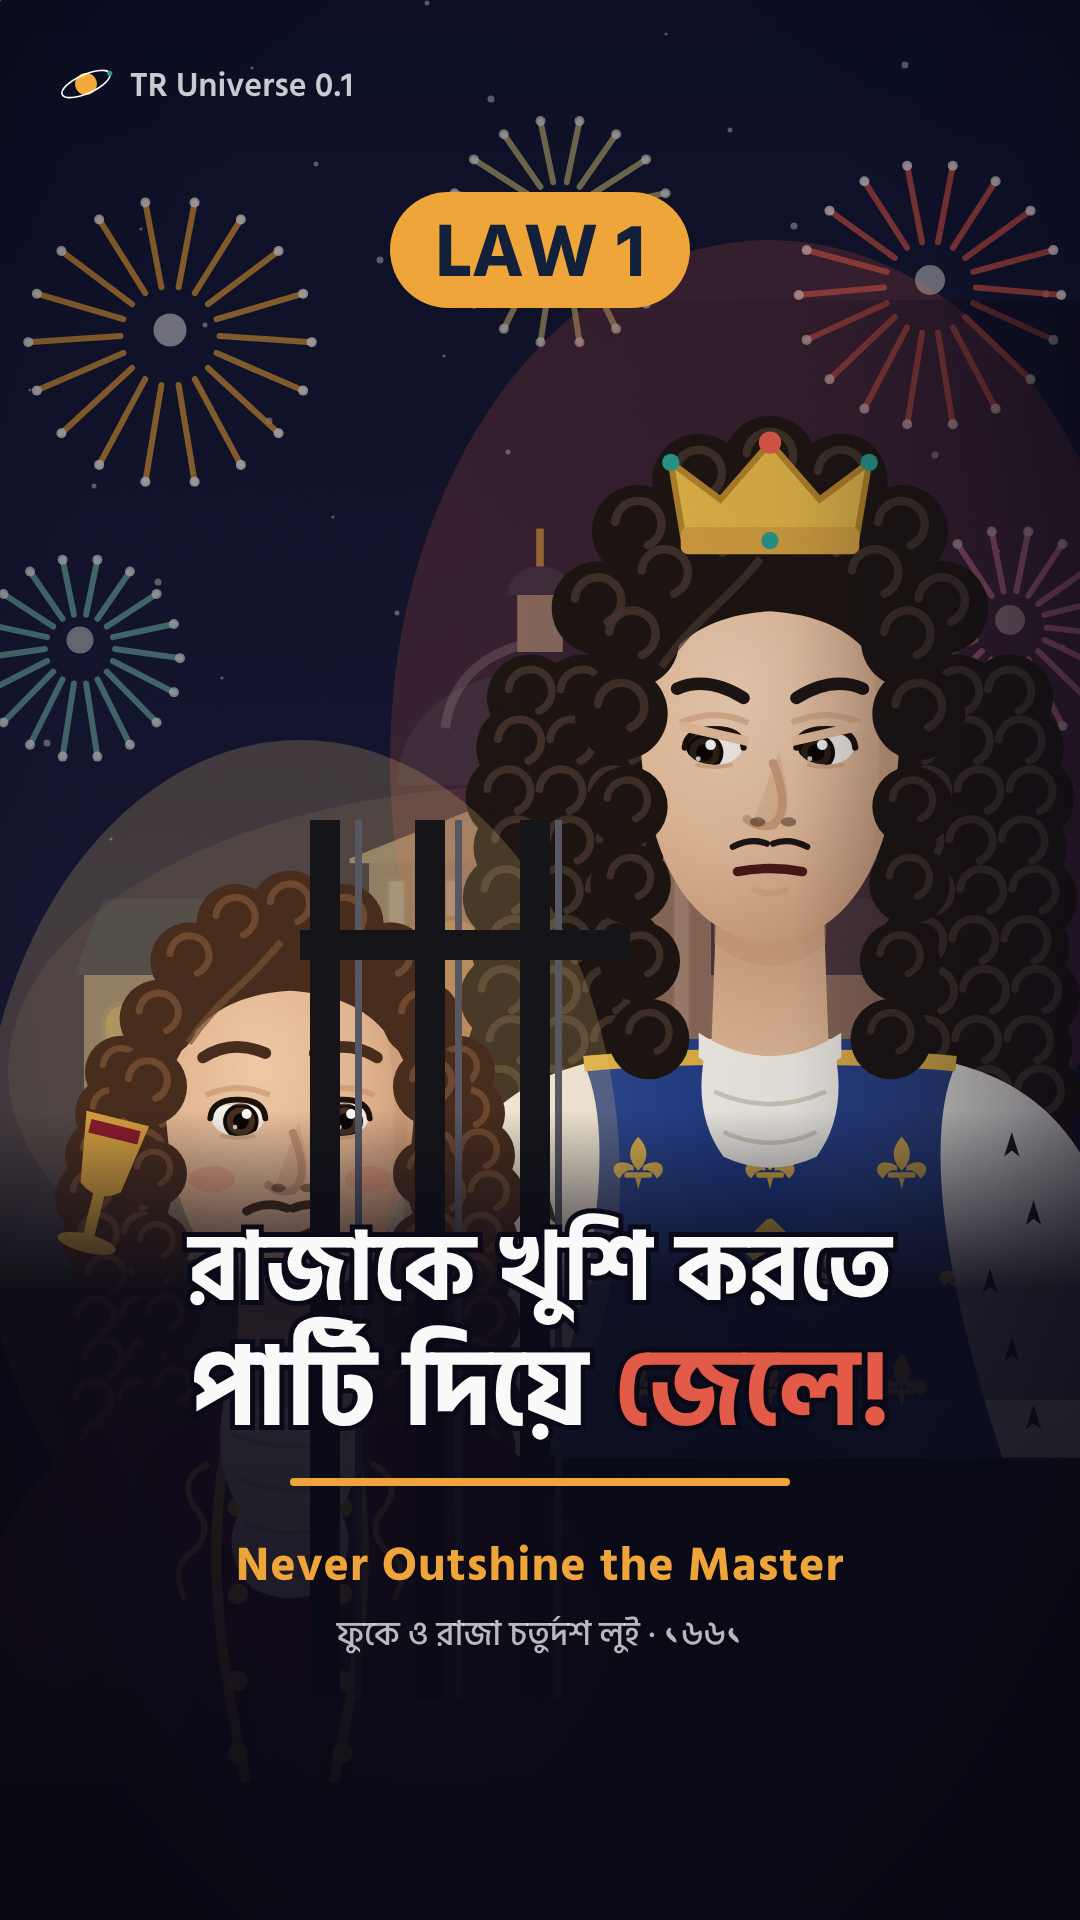
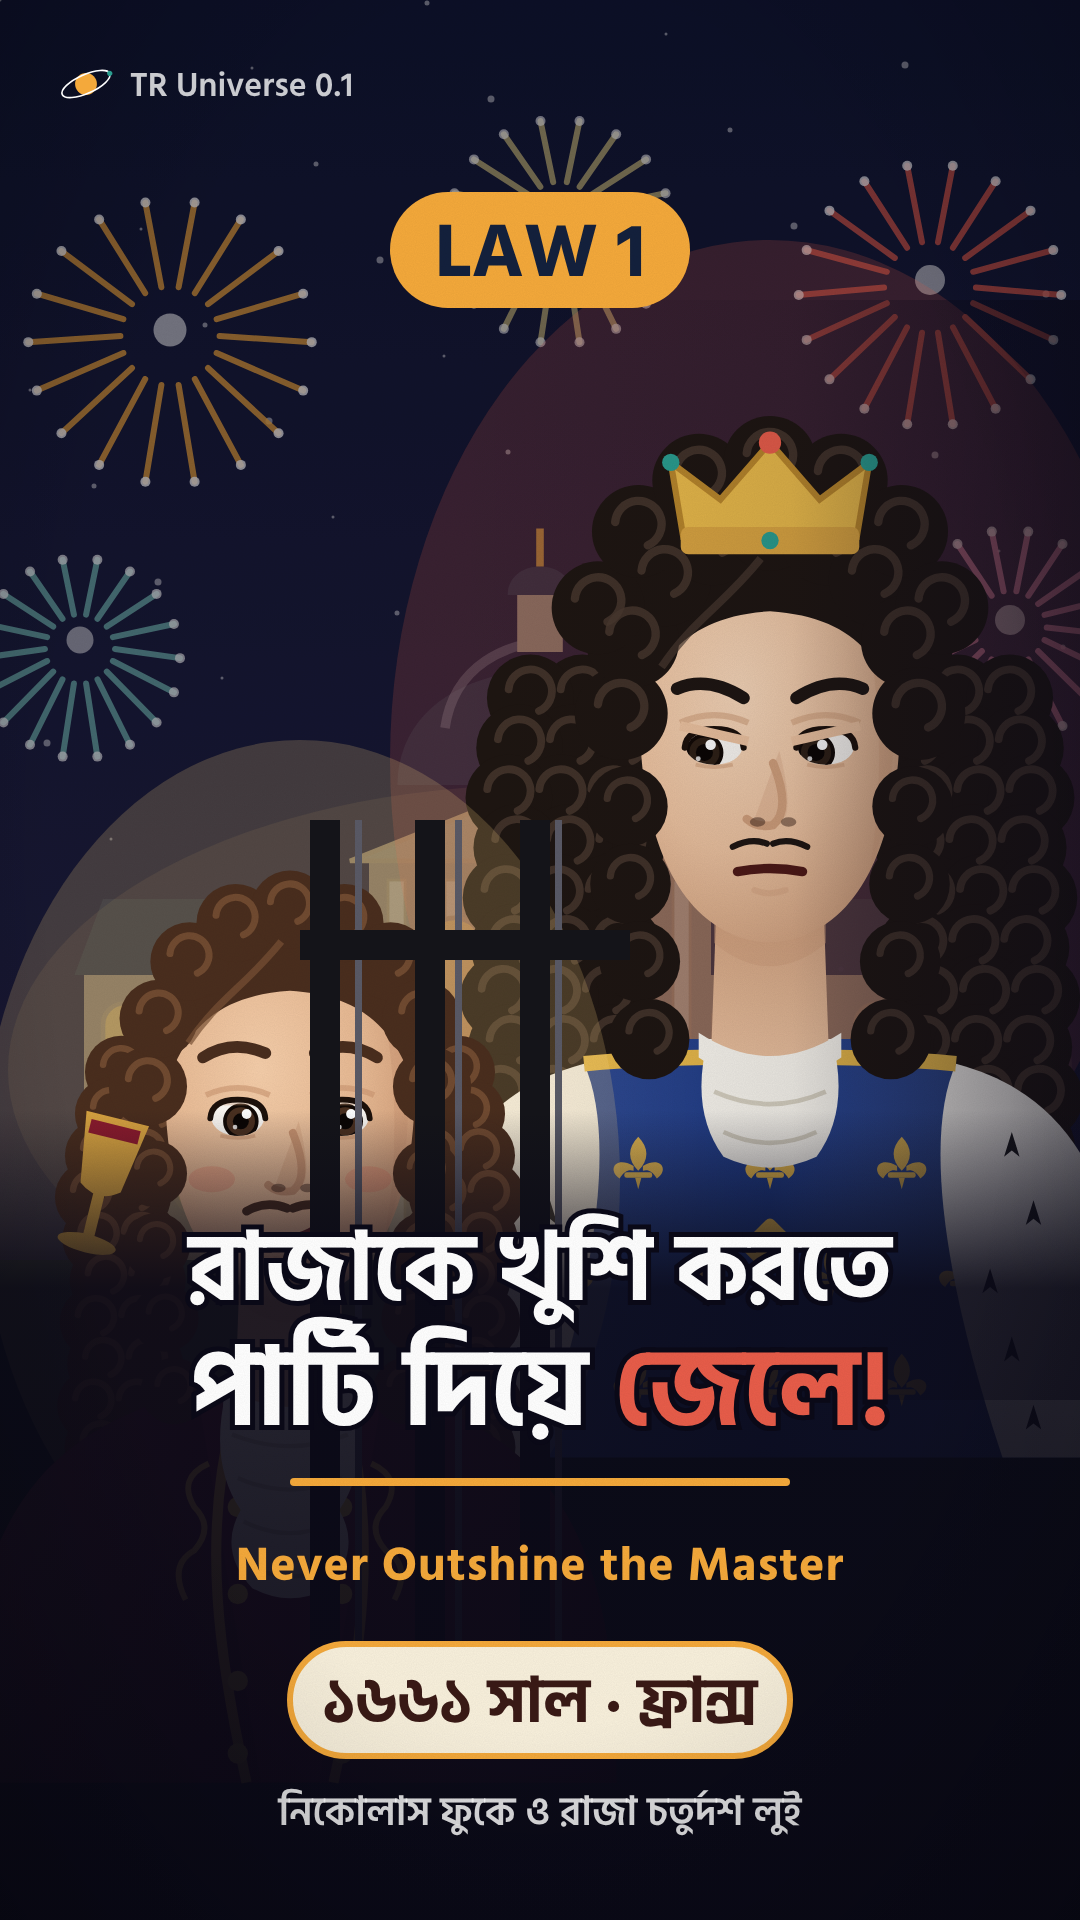
Law 1 cover: prominent year badge
Claude-Session: https://claude.ai/code/session_01SGWGBkv7ivxbdAH2dwbe9U

Changed region(s): [[0.2444, 0.8438, 0.7333, 0.9688]]

diff --git a/law1/cover.js b/law1/cover.js
@@ -32,7 +32,9 @@ const out = path.resolve(process.argv[2] || 'output'); fs.mkdirSync(out, { recur
     s += `<text x="540" y="1425" text-anchor="middle" font-size="108" font-weight="700" fill="#fff" stroke="#0B0A18" stroke-width="10" paint-order="stroke">পার্টি দিয়ে <tspan fill="${C.coral}">জেলে!</tspan></text>`;
     s += `<rect x="290" y="1478" width="500" height="8" rx="4" fill="${C.amber}"/>`;
     s += `<text x="540" y="1580" text-anchor="middle" font-size="48" font-weight="700" fill="${C.amber}" letter-spacing="1">Never Outshine the Master</text>`;
-    s += `<text x="540" y="1645" text-anchor="middle" font-size="34" font-weight="500" fill="#ffffffbb">ফুকে ও রাজা চতুর্দশ লুই · ১৬৬১</text>`;
+    s += `<g transform="translate(540,1700)"><rect x="-250" y="-56" width="500" height="112" rx="56" fill="#F8F0DC" stroke="${C.amber}" stroke-width="6"/><text y="22" text-anchor="middle" font-size="62" font-weight="700" fill="#3A1A16">১৬৬১ সাল · ফ্রান্স</text></g>`;
+    s += `<text x="540" y="1650" text-anchor="middle" font-size="0"></text>`;
+    s += `<text x="540" y="1825" text-anchor="middle" font-size="40" font-weight="600" fill="#ffffffdd">নিকোলাস ফুকে ও রাজা চতুর্দশ লুই</text>`;
     const defs = DEFS.replace('</defs>', `<linearGradient id="gSideR" x1="0" y1="0" x2="1" y2="0"><stop offset="0" stop-color="#0B0A18" stop-opacity=".0"/><stop offset=".55" stop-color="#0B0A18" stop-opacity=".1"/><stop offset="1" stop-color="#0B0A18" stop-opacity=".55"/></linearGradient><linearGradient id="gBottom" x1="0" y1="0" x2="0" y2="1"><stop offset="0" stop-color="#0B0A18" stop-opacity="0"/><stop offset=".22" stop-color="#0B0A18" stop-opacity=".88"/><stop offset="1" stop-color="#0B0A18" stop-opacity=".97"/></linearGradient></defs>`);
     document.getElementById('stage').innerHTML = `<svg xmlns="http://www.w3.org/2000/svg" width="${W}" height="${H}" viewBox="0 0 ${W} ${H}" font-family="Hind Siliguri">${defs}${s}${vignette(.45)}${grain(.05)}${brandTag(true)}</svg>`;
     document.getElementById('sub').style.opacity = 0;
